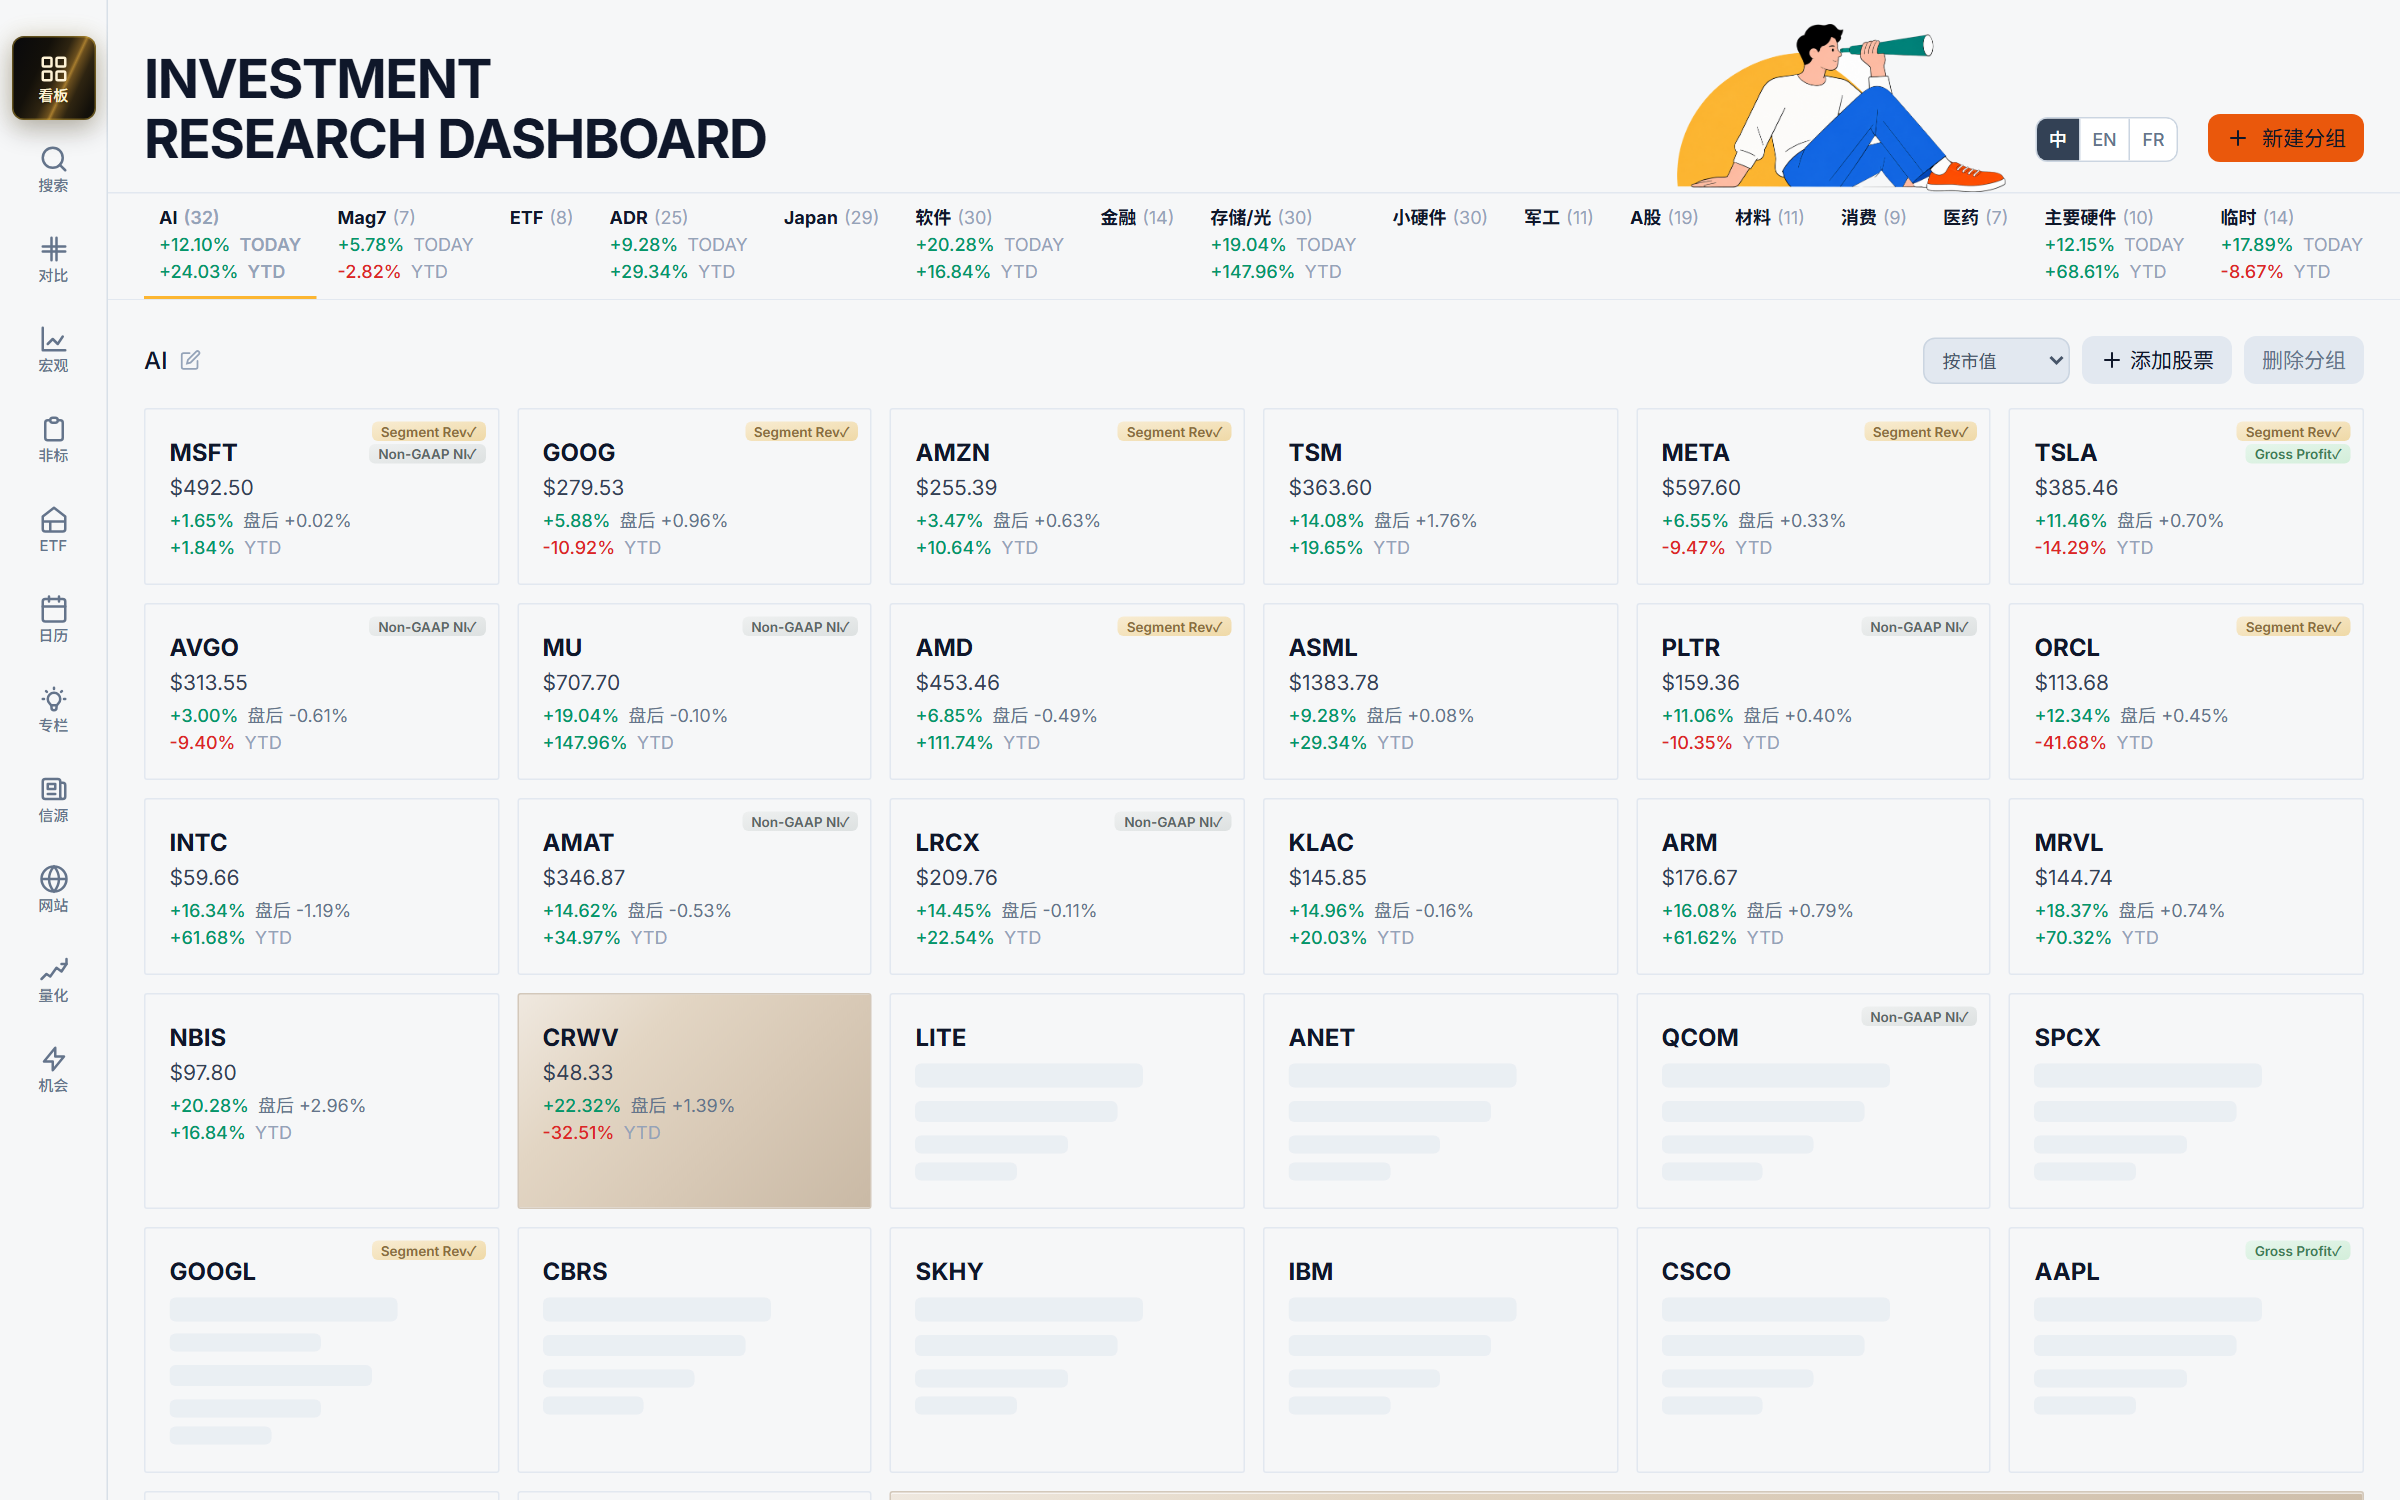
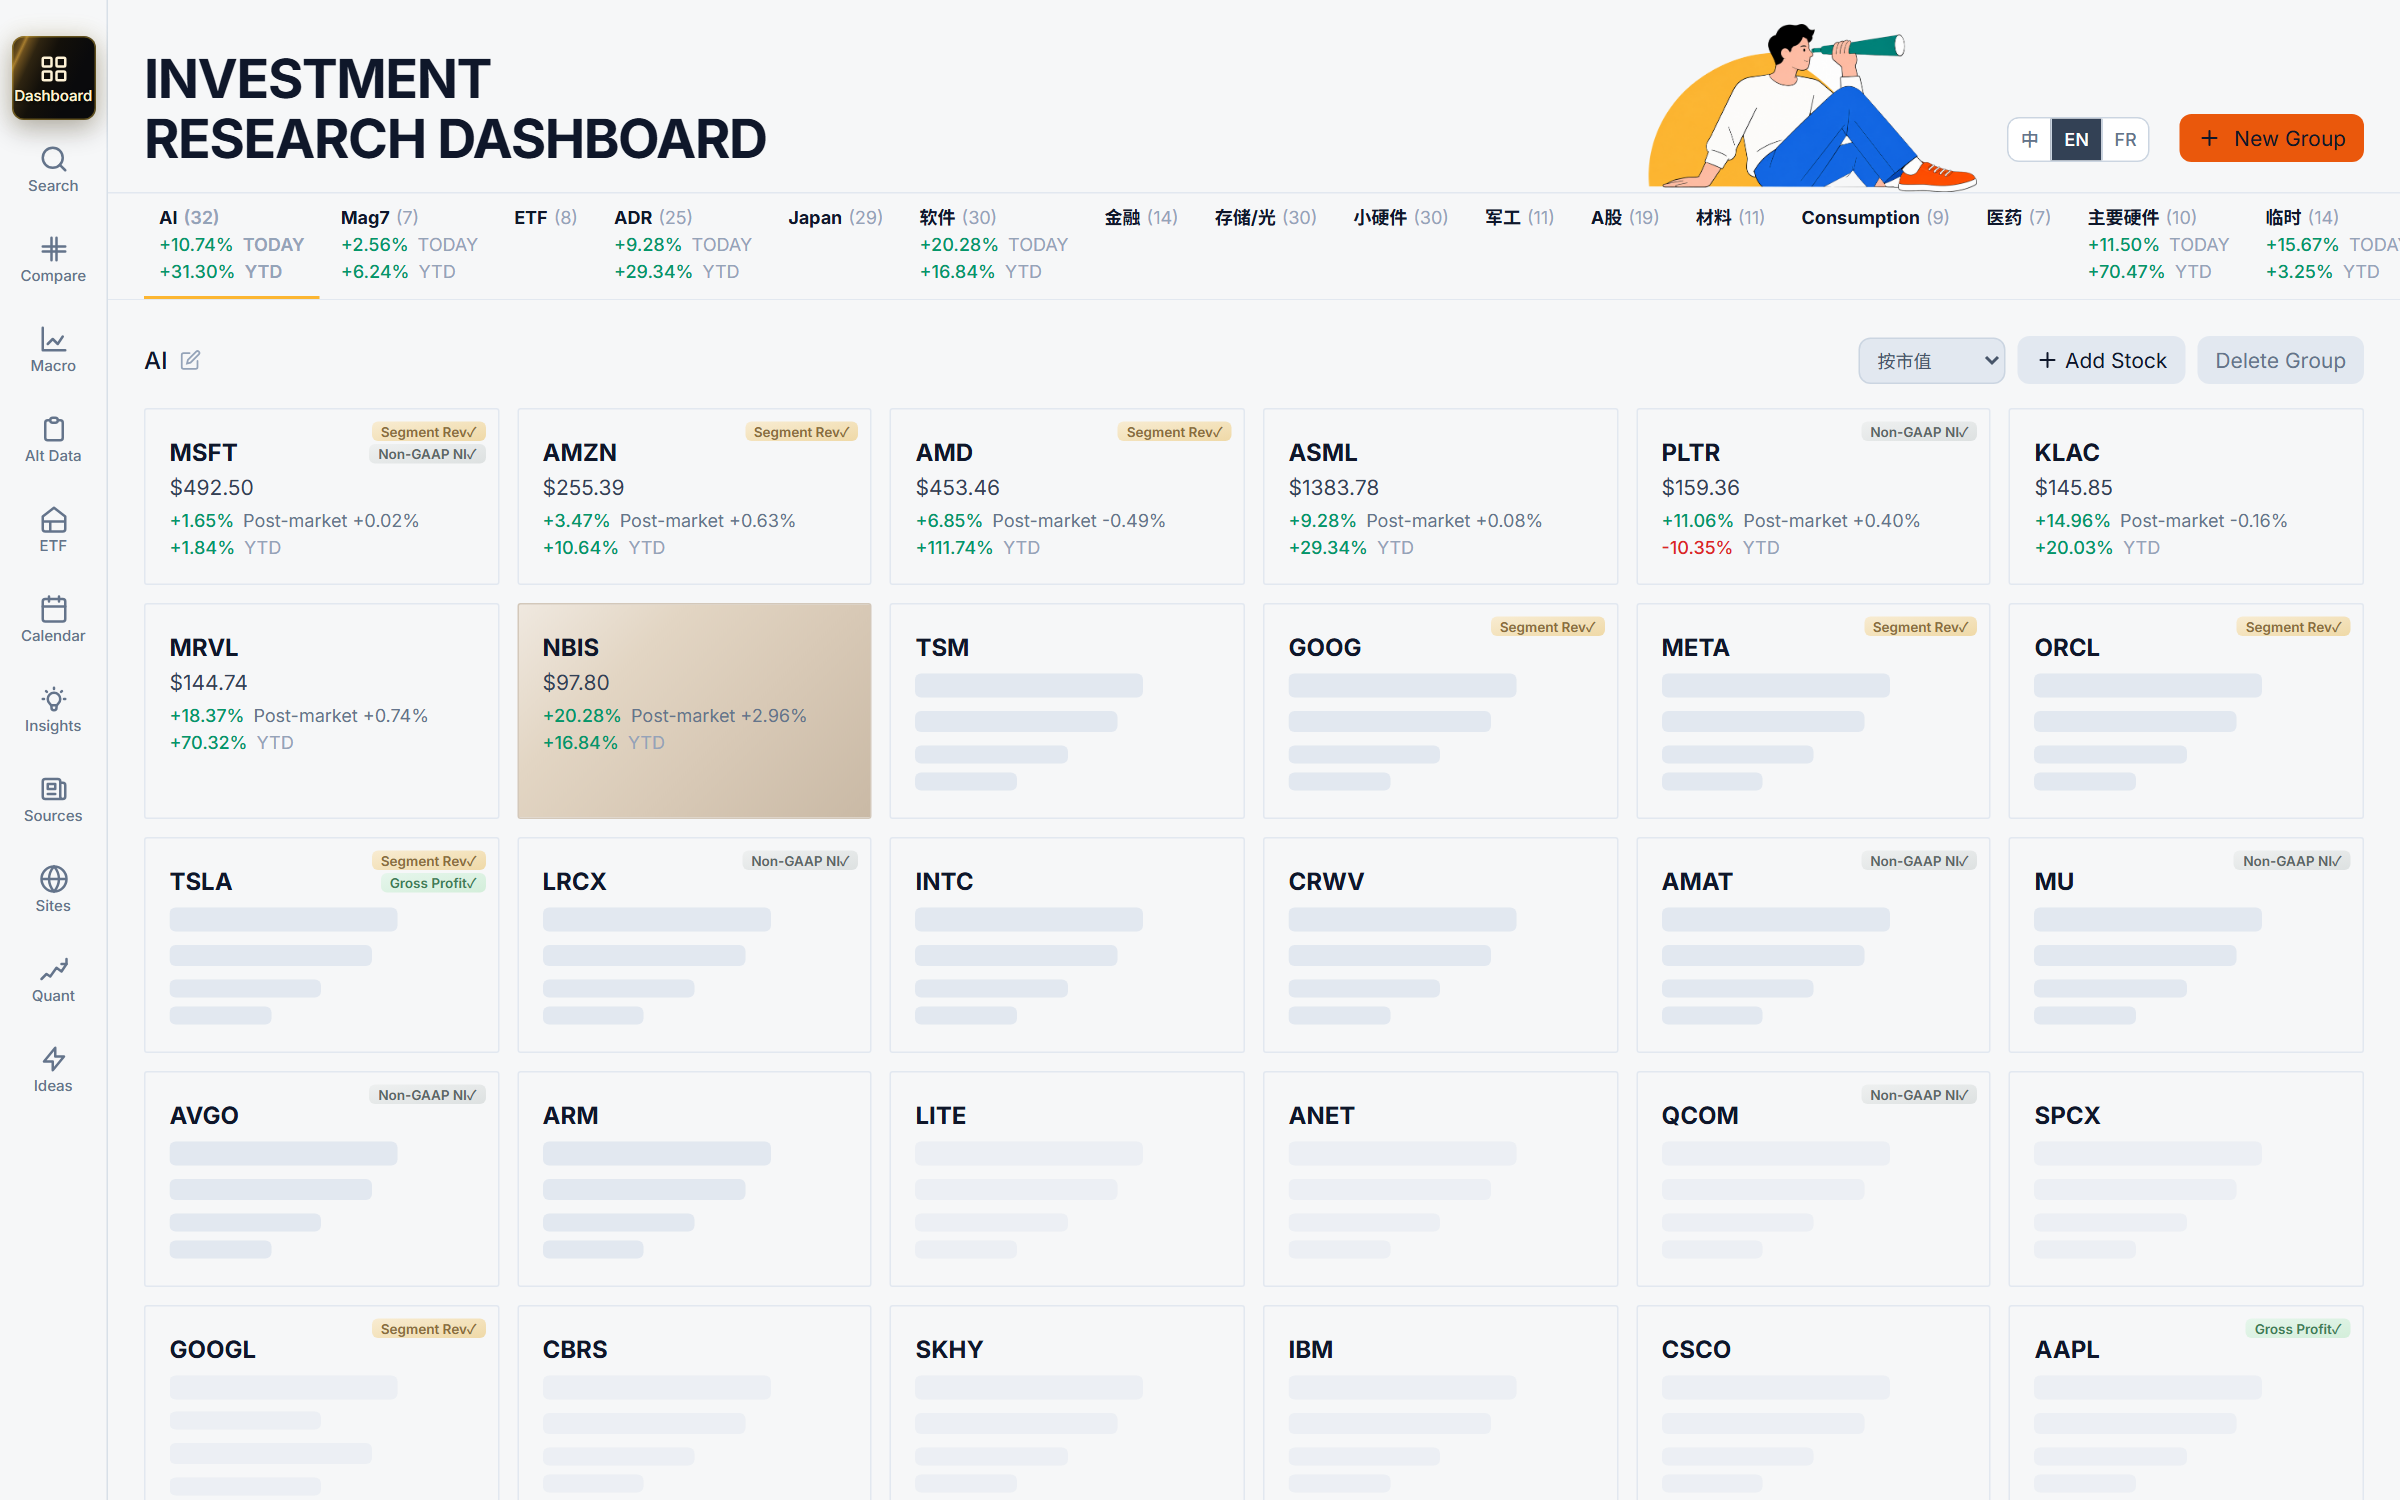
docs: 改为英文版, 财报原文置首并强调可视化, 补充宏观与非标数据

diff --git a/README.md b/README.md
@@ -1,115 +1,114 @@
-# 投资研究看板 · Investment Research Dashboard
+# Investment Research Dashboard
 
-一个面向美股投研的 Web 看板：把**机构持仓、财报原始数据、量化因子、板块轮动**放在同一个界面里，
-数据全部来自一手来源（SEC EDGAR / 交易所行情 API），不经过第三方聚合商。
+A web dashboard for US equity research — financial statements, institutional holdings,
+quantitative factors, macro series and sector rotation in one place, built directly
+on primary sources rather than third-party data aggregators.
 
-**在线访问** → https://investment-dashboard.up.railway.app/
+**Live** → https://investment-dashboard.up.railway.app/
 
 ---
 
-## 为什么做这个
+## What this is
 
-大多数投研工具是「数据展示器」：把现成的数据源包装成好看的图。
-但真正做研究时会发现，几个关键地方的数据是被加工过、甚至处理错误的。
+Most research tools are data viewers: they wrap an existing vendor feed in a nicer
+chart. That works until you need something the vendor did not think to expose — a
+segment breakdown buried in an 8-K, an RPO number, a factor you want to compute
+yourself.
 
-这个项目主要想解决三类问题：
+This project pulls the raw material and turns it into something you can act on.
 
-### 一、机构持仓的真实性
+---
 
-13F 里同一只股票可能有多条记录：普通股、看涨期权、看跌期权，用 `<putCall>` 字段区分。
-**期权的 shares 是标的股数，不是实持股数**——不区分就相加，持仓会被严重高估。
+## Financial statements, read from the filing itself
 
-实测案例（Millennium 持有 NVDA，2026 Q3）：
+Revenue, segment splits, non-GAAP reconciliations, remaining performance obligations
+and forward guidance are parsed directly from SEC EDGAR **8-K / 10-Q / 10-K** filings
+— not bought from a data vendor.
 
-| 项目 | 股数 |
+![Stock detail](screenshots/stock-detail.png)
+
+That pays off in three ways:
+
+- **The line items a vendor doesn't carry.** Segment revenue, RPO, guidance ranges,
+  non-GAAP-to-GAAP bridges — you get them because you read the document.
+- **Control over definitions.** You decide what counts as "adjusted", and the
+  reconciliation is visible rather than assumed.
+- **Visual output, not a wall of tables.** Every parsed figure lands in a chart you
+  can compare across tickers and across quarters — revenue composition, margin
+  trends, EPS surprise history, segment contribution.
+
+---
+
+## Macro and non-standard data
+
+Beyond single names, the dashboard tracks the wider context:
+
+- **GPU pricing** — real-time cloud compute pricing across providers, tracked as a
+  time series rather than a one-off snapshot
+- **AI model rankings** — intelligence index vs. cost-per-task, with a Pareto
+  frontier separating US and Chinese model families
+- **Macro series** — rates, inflation, FX majors and precious metals, pulled from
+  FRED and plotted on a shared axis for side-by-side comparison
+- **Non-standard datasets** — alt-data feeds and custom series that don't fit a
+  standard financial data model
+
+![Insights](screenshots/topics.png)
+
+---
+
+## Quantitative factors
+
+Eight self-built factors, with the formula and the backtest both visible:
+
+| Factor | What it measures |
 |---|---|
-| 普通股 | 13,041,779 |
-| Call 标的股数 | 13,257,800 |
-| Put 标的股数 | 31,112,100 |
-| **混算结果** | **57,411,679**（虚高 4.4 倍）|
+| Residual momentum | Momentum after regressing out SPY |
+| WorldQuant Alpha #74 | Price momentum composite |
+| Volatility-adjusted momentum | Return scaled by realised vol |
+| ATR low-volatility | Low-volatility anomaly |
+| CORR5 | Rolling price–volume correlation |
+| Bollinger position | %B within the band, inverted |
+| OBV slope | Normalised on-balance-volume trend |
+| KLOW / opening gap | Candlestick and overnight-gap signals |
 
-本看板把三类分开统计，只把普通股计入持仓，期权敞口单独标注。
-环比也从错误的 +27.1% 恢复为真实的 +7.3%。
+Each comes with IC / RankIC analysis, a five-quintile backtest, and a decay curve
+across horizons from 1 to 60 days.
 
-### 二、财报数字直接读原文
-
-营收、分部收入、non-GAAP 对账、RPO（剩余履约义务）、指引——这些直接从
-SEC 的 8-K / 10-Q / 10-K 文件解析，而不是买第三方整理好的数据。
-好处是口径可控、能拿到第三方数据库没有的细项。
-
-### 三、自己算的因子
-
-8 个自建量化因子，公式和回测逻辑都可见：
-
-- 残差动量（对 SPY 回归后的超额动量）
-- World Quant Alpha #74
-- 波动率调整动量（VAM）
-- ATR 低波动
-- CORR5 价量相关
-- 布林带位置
-- OBV 归一化斜率
-- KLOW 下影线、开盘跳空
-
-每个因子都带 IC / RankIC 分析和五分层回测。
-
-**ROE 因子（PIT 对齐）** —— 财报数据按「提交日」而非「期末日」对齐，
-避免回测偷看未来。Q3 财报 11 月 16 日提交，11 月 15 日的截面仍然使用 Q2 数据。
+**ROE (point-in-time).** A fundamentals factor aligned by **SEC filing date**, not
+period end. A Q3 report filed on 16 November is not used in a 15 November
+cross-section — the backtest cannot see the future. Negative-equity names are
+excluded, since a negative denominator would produce a positive ROE.
 
 ---
 
-## 界面
+## Interface
 
-### 专栏 · 内容矩阵与机构持仓
-
-![专栏页](screenshots/topics.png)
-
-每周自动生成的板块周报、17 家顶级对冲基金的持仓变化桑基图、
-AI 板块资金流、GPU 云算力价格追踪。
-
-### 个股详情
-
-![个股详情](screenshots/stock-detail.png)
-
-行情、技术指标、财报、机构持仓、相关杠杆 ETF 集中在一页。
-
-### 自选股总览
-
-![首页](screenshots/home.png)
+![Overview](screenshots/home.png)
 
 ---
 
-## 数据来源
+## Data sources
 
-| 数据 | 来源 |
+| Data | Source |
 |---|---|
-| 行情（日线/分时/期权） | 交易所行情 API |
-| 13F 机构持仓 | SEC EDGAR 原始 XML |
-| 财报（营收/分部/non-GAAP） | SEC EDGAR 8-K、10-Q、10-K |
-| 宏观指标 | FRED |
-| 因子回测数据 | 自建，5 年日频 |
+| Prices (daily, intraday, options) | Exchange market-data API |
+| Institutional holdings (13F) | SEC EDGAR raw XML |
+| Financial statements | SEC EDGAR 8-K, 10-Q, 10-K |
+| Macro indicators | FRED |
+| Factor backtests | Self-built, 5-year daily panel |
 
 ---
 
-## 技术栈
+## Stack
 
-- **后端**：FastAPI + PostgreSQL
-- **前端**：Alpine.js + Chart.js + ECharts
-- **部署**：Railway
-- **多语言**：中文 / English / Français（运行时 DOM 替换层）
-
----
-
-## 一些研究笔记
-
-做这个项目过程中整理的分析，都是基于自己的数据验证的：
-
-- **13F 数据里机构持仓被系统性高估** —— 期权混算问题，见上文
-- **AMD 的期权市场在为「波动幅度」而非「方向」定价** —— 前端 IV 98% 但 IV/HV 只有 0.60，期权相对已实现波动打了六折
-- **ROE 在 S&P100 上几乎无预测力，但在 NDX100 上有分层差异** —— IC 从 -0.004 到分层收益 Q1/Q5 差距明显
+- **Backend** — FastAPI + PostgreSQL
+- **Frontend** — Alpine.js, Chart.js, ECharts
+- **Deploy** — Railway
+- **i18n** — Chinese / English / French, via a runtime DOM translation layer
 
 ---
 
-## 说明
+## Note
 
-本项目为个人研究工具，不提供投资建议。数据来自公开渠道，
-分析结论仅供参考，不构成任何买卖建议。
+A personal research tool. Data comes from public sources and is provided for
+information only — not investment advice.
